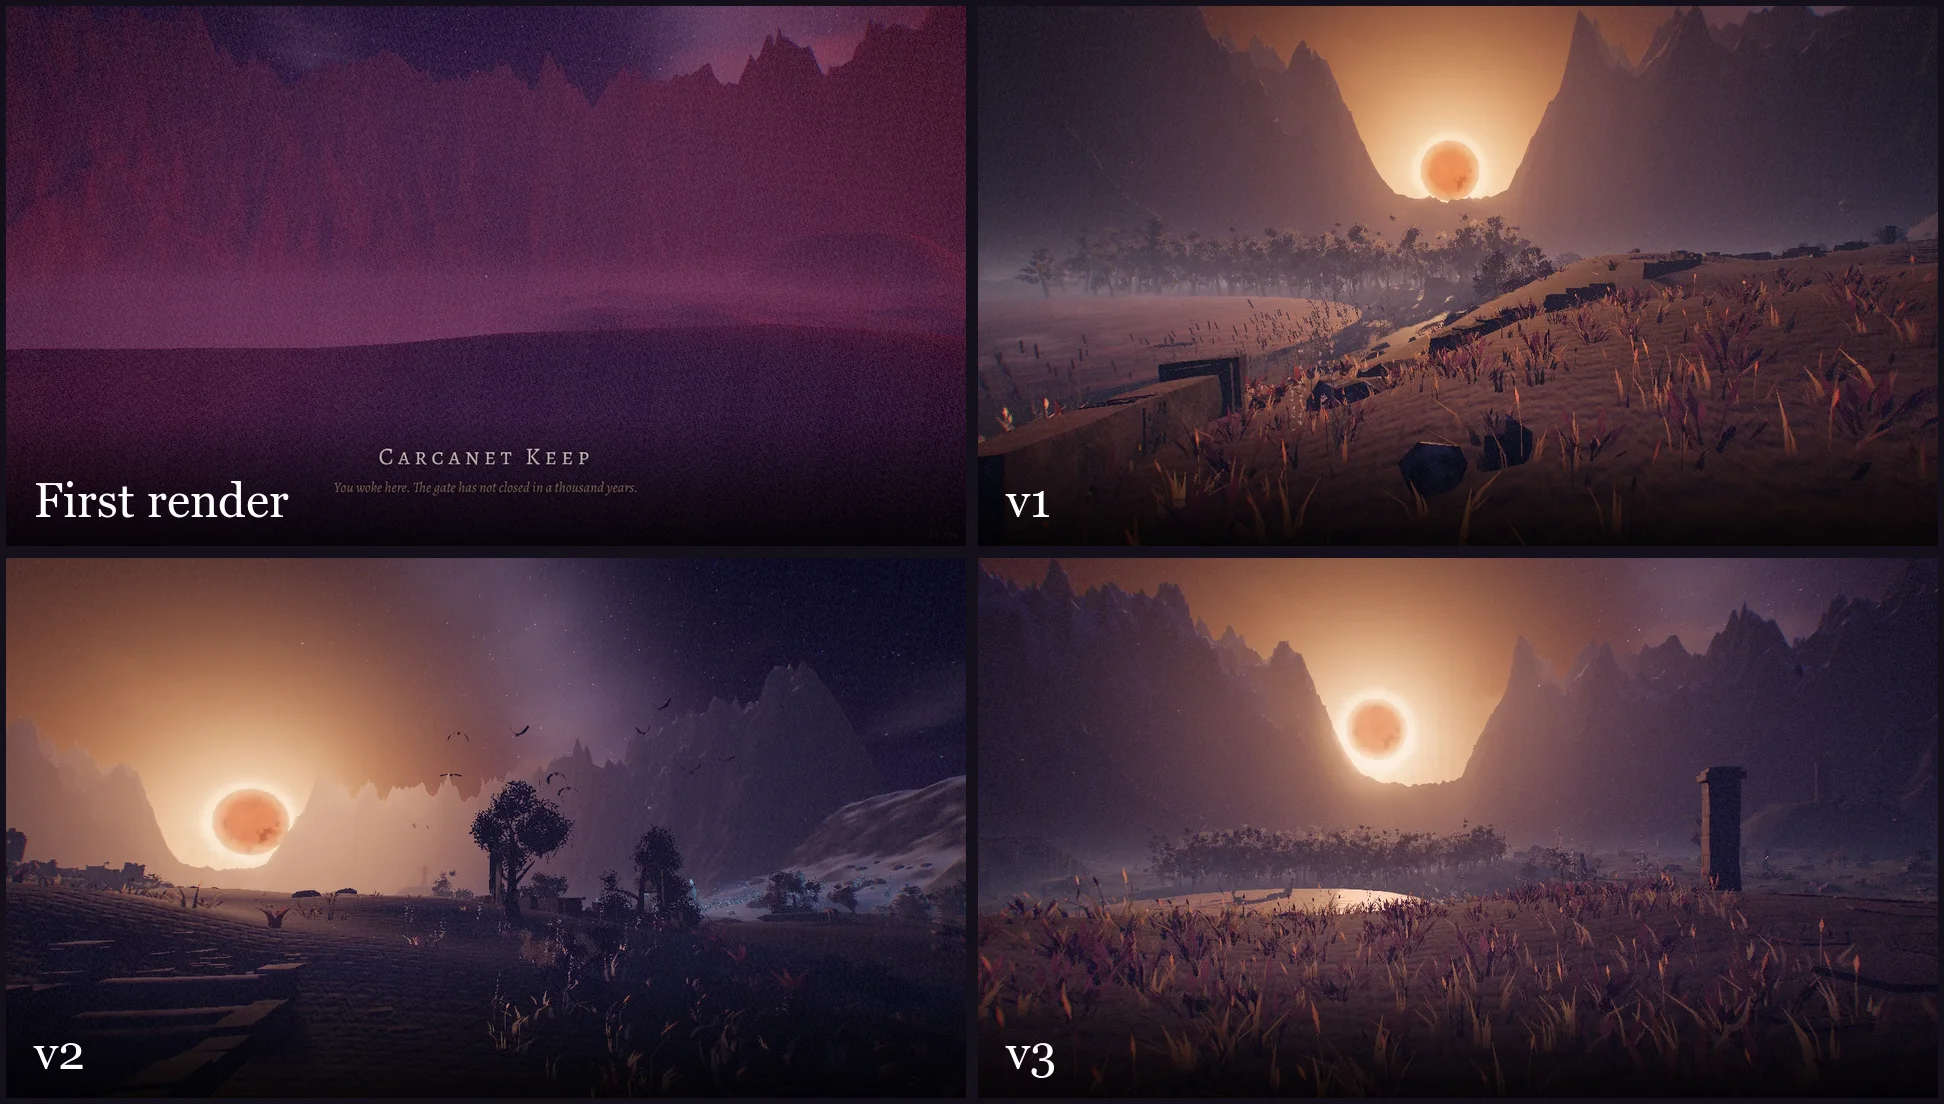
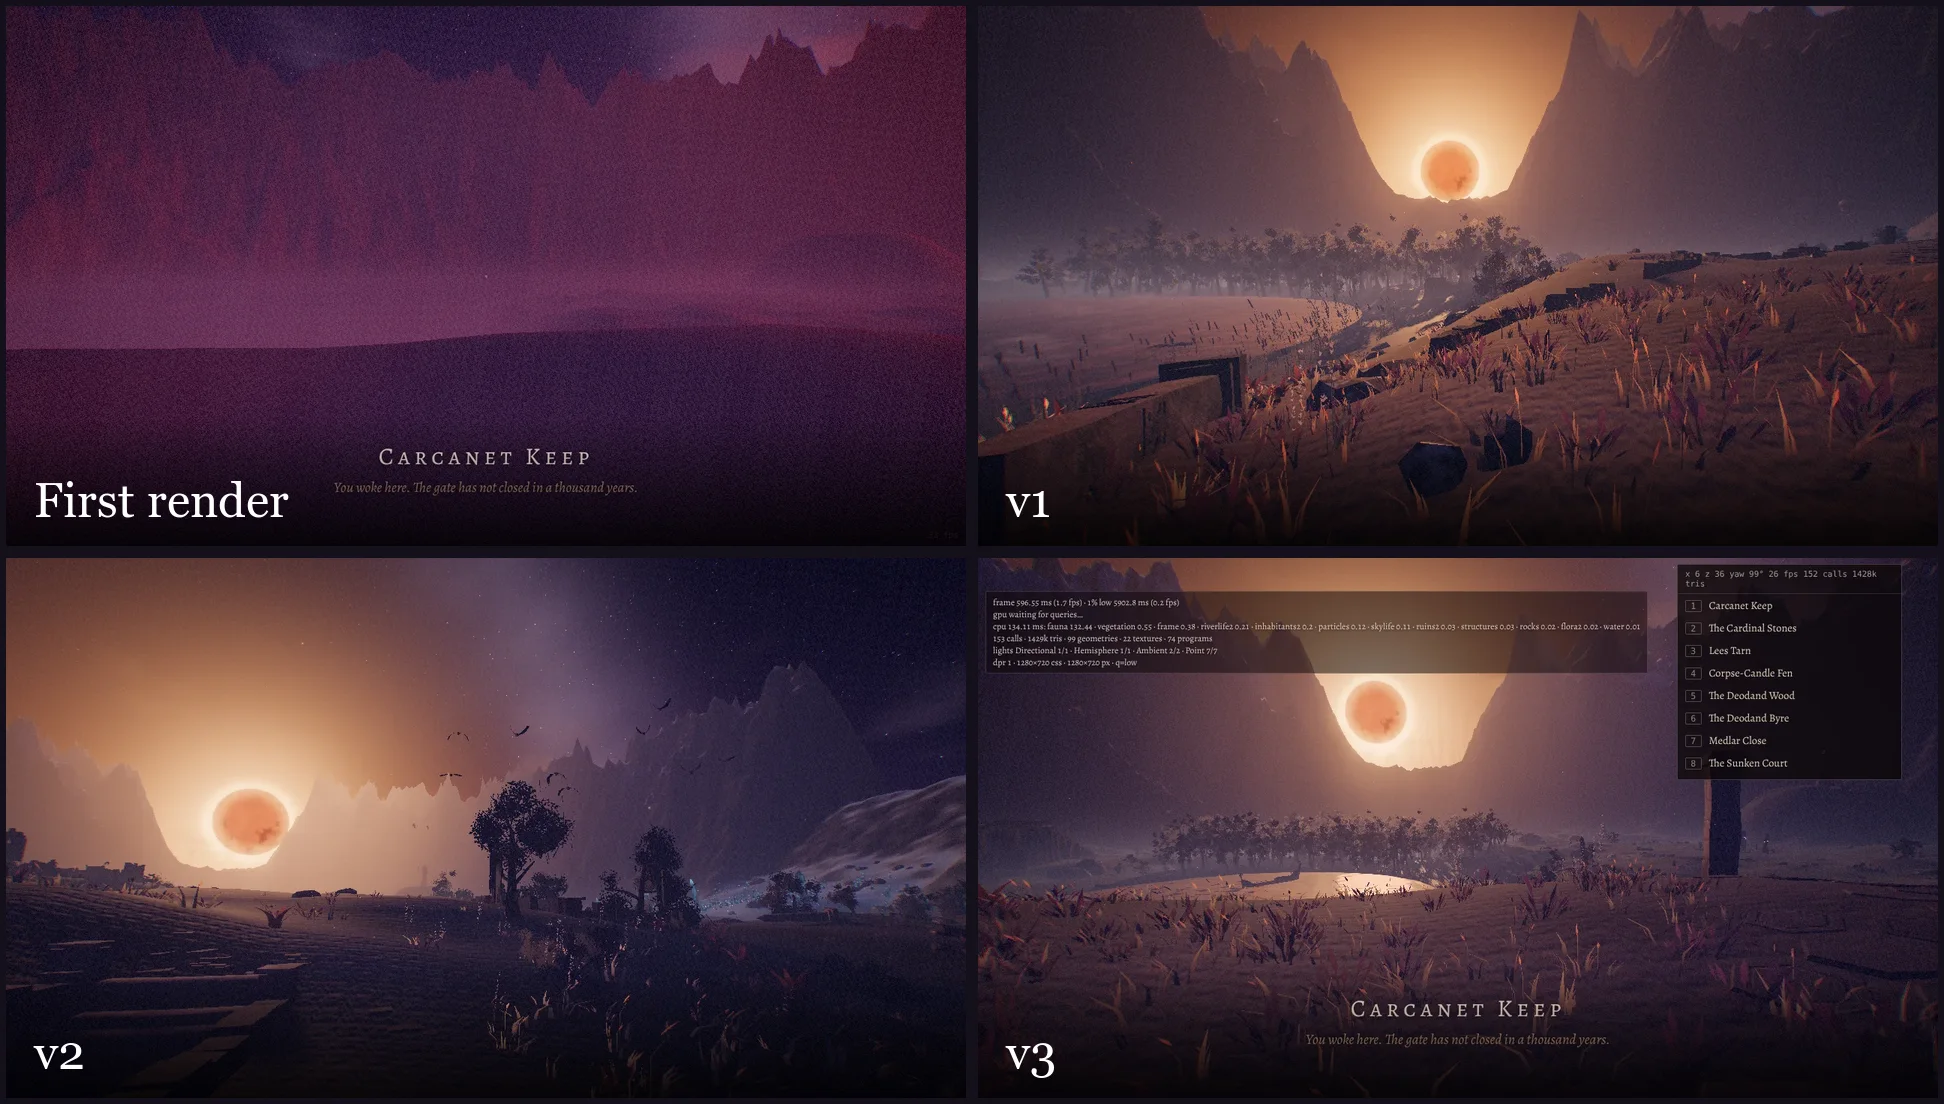
docs: gallery shots that show what each version added
v3 the profiler from its performance pass, v4 the Saltings, v5 the Galleries of Durance, v7 the Bather.

Changed region(s): [[0.4938, 0.4928, 0.9877, 0.9547]]

diff --git a/shots/README.md b/shots/README.md
@@ -74,7 +74,7 @@ Agents write raw work-in-progress renders into `wip/` (the inbox). At each merge
 | 59 | v7.1 UI: coordinates, the full teleport list, the region cards, the Pit and Rest in Starlight, the Lamplighter's couplet |
 | 60 | v7.1 visibility: each thing a step more visible along its own palette, before and after, and the survey sheet |
 
-`plan-v2-placement-map.webp` is the v2 placement plan, unnumbered. `gallery-first-render-to-v3.webp` and `gallery-v4-to-v7.webp` are the two labelled 2×2 grids the top-level `README.md` shows, built from `00-core-first-light`, `07-full-causeway`, `13-life-rooks-lift-yard`, `17-tier-spawn-after`, `23-span-spawn-after`, `30-thrones-gutter-spawn-after`, `47-yews-far-after` and `50-walkers-thurifer-road`.
+`plan-v2-placement-map.webp` is the v2 placement plan, unnumbered. `gallery-first-render-to-v3.webp` and `gallery-v4-to-v7.webp` are the two labelled 2×2 grids the top-level `README.md` shows, built from `00-core-first-light`, `07-full-causeway`, `13-life-rooks-lift-yard`, `14-perf-overlay-spawn`, `22-saltings-rim-after`, `30-galleries-tower-foot-after`, `47-yews-far-after` and `55-canyon-bather-after`.
 
 ## Index
 
